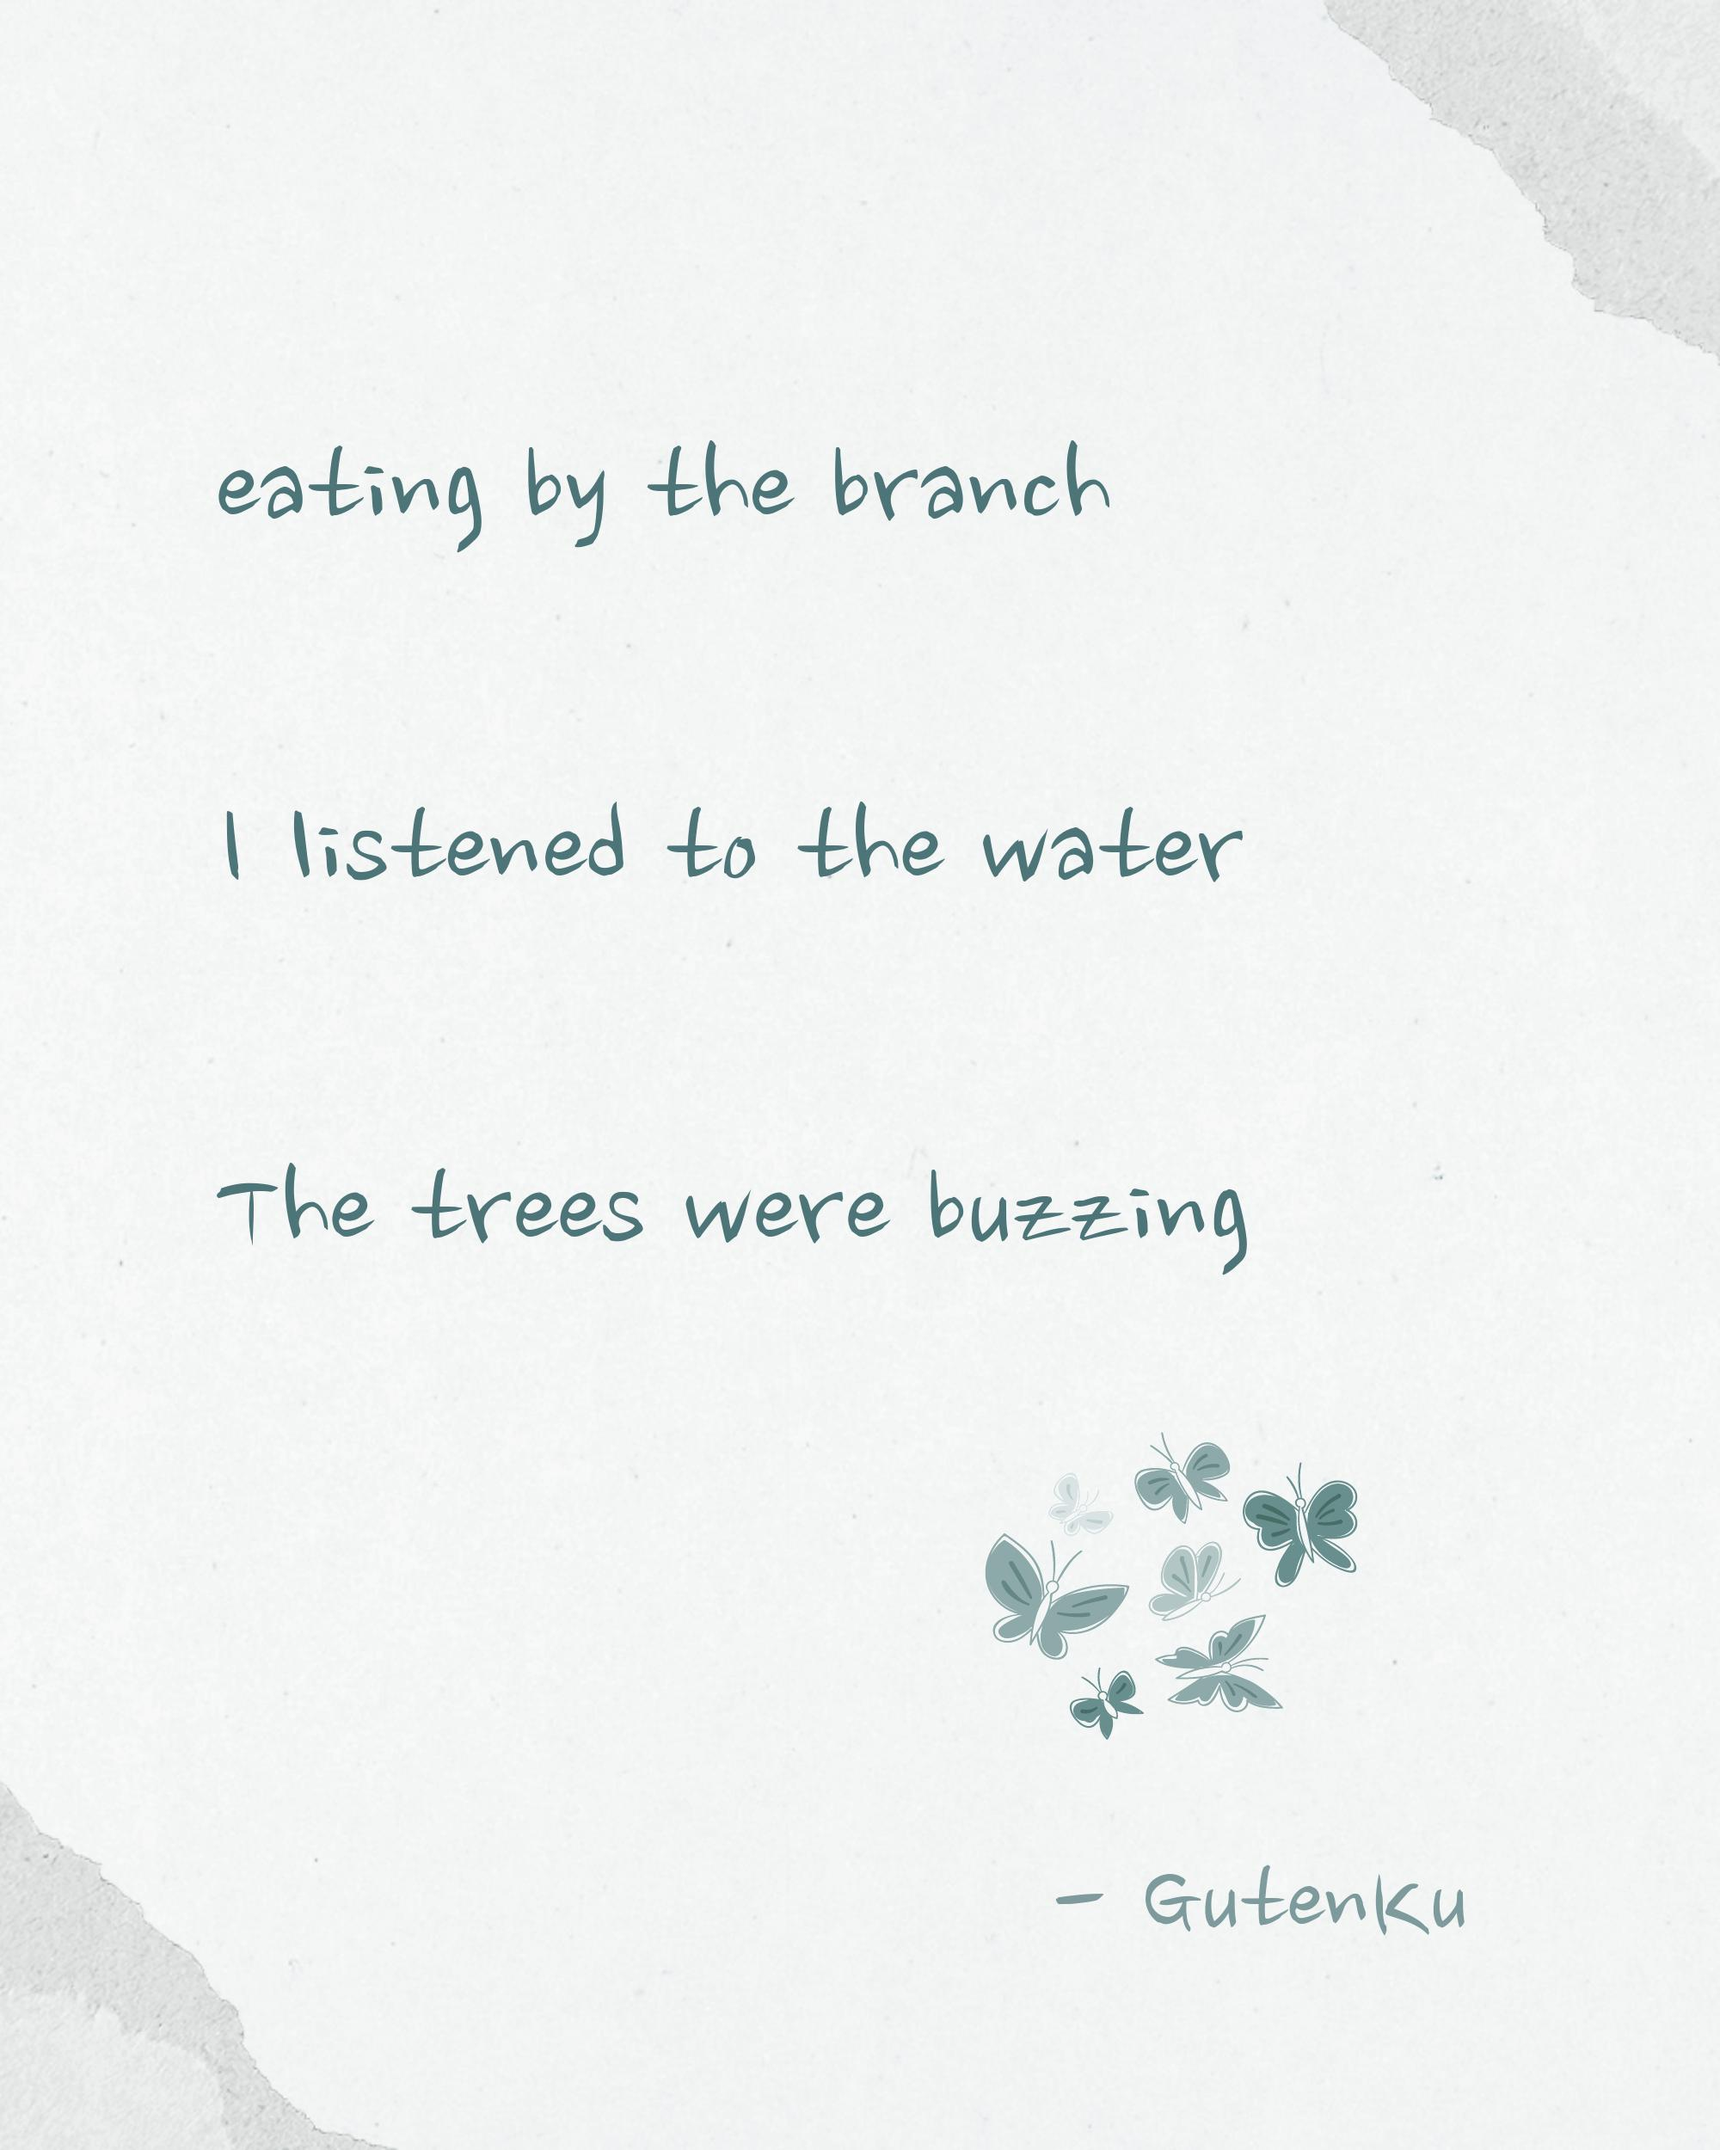
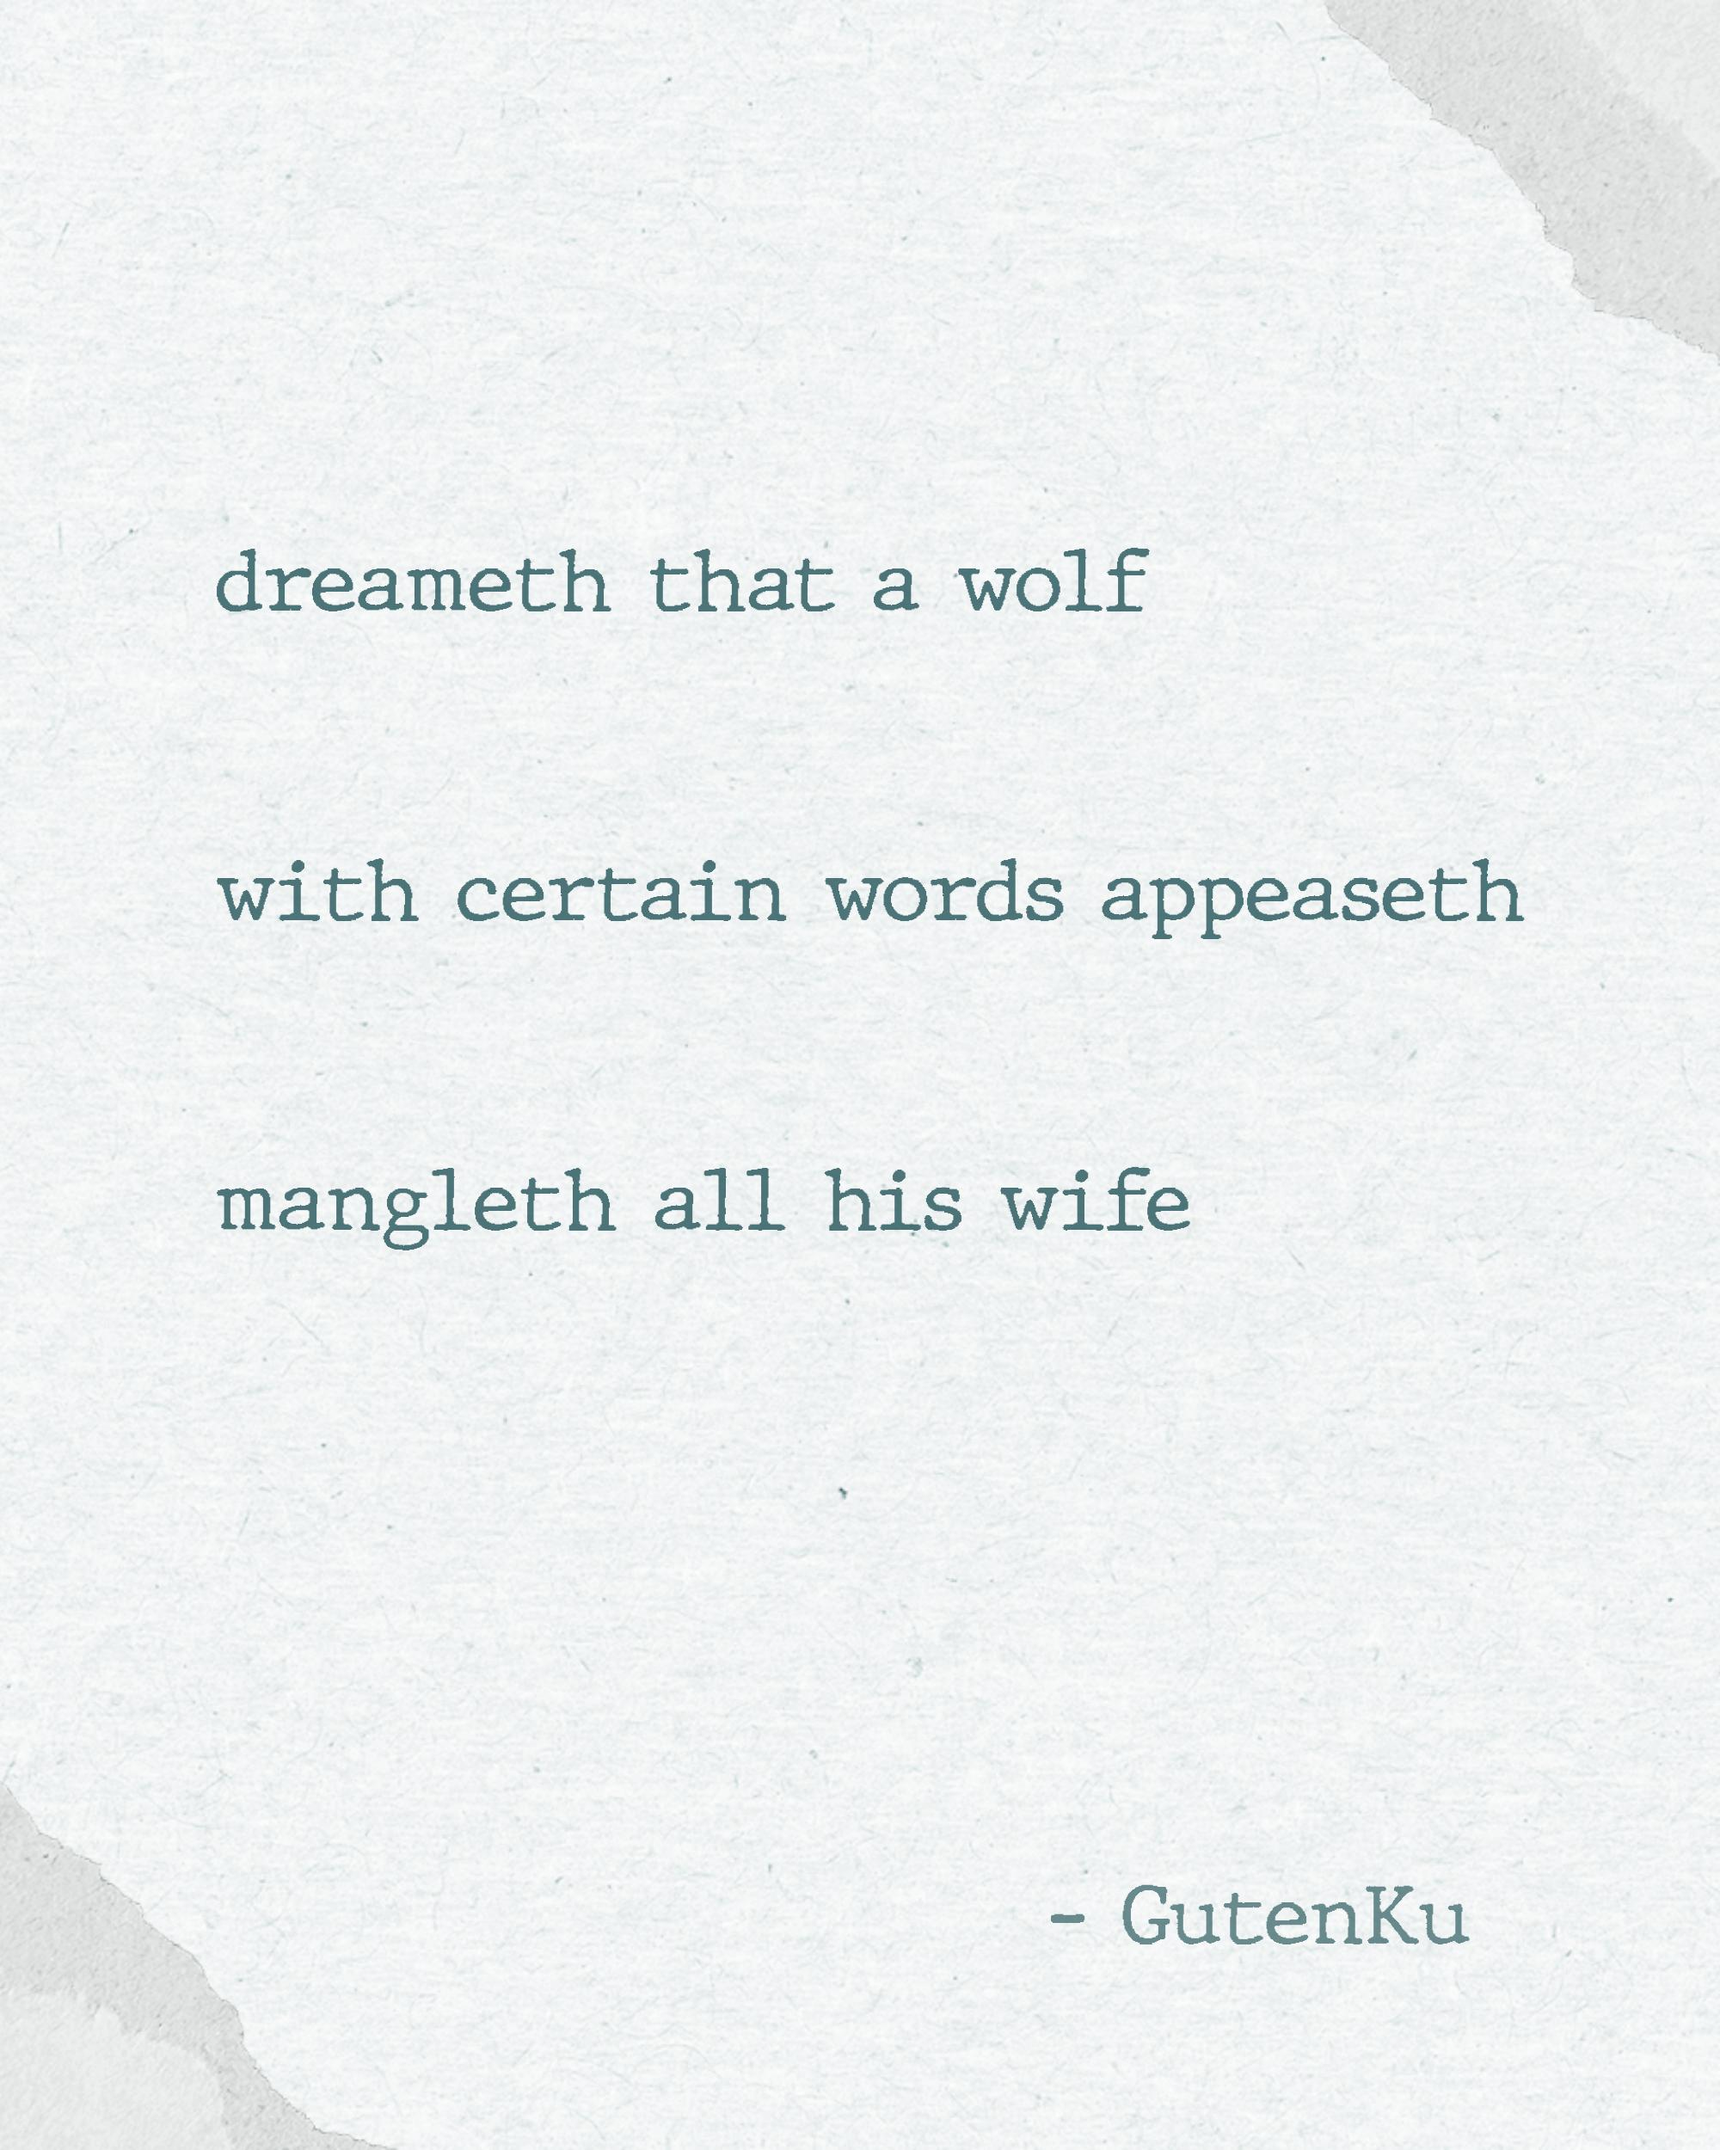
docs(readme): updated daily haiku card

diff --git a/README.md b/README.md
@@ -25,13 +25,13 @@
 <table>
 <tr>
 <td width="300" valign="top">
-<img src="/assets/img/daily_haiku_card.jpg?t=1791712820" width="280" alt="Daily Haiku Card">
+<img src="/assets/img/daily_haiku_card.jpg?t=1791799243" width="280" alt="Daily Haiku Card">
 </td>
 <td valign="top">
 
-> _"This haiku captures a quiet, reflective moment in nature, where simple actions and sounds blend into a vivid sensory experience. The speaker is eating beside a branch, suggesting stillness and closeness to the natural world. As they listen to the water, the scene becomes more peaceful and meditative, emphasizing sound as much as sight. The final line, “The trees were buzzing,” adds a surprising layer of life and energy, making the forest feel alive with hidden movement, perhaps from insects or the hum of nature itself. Overall, the haiku creates a calm yet vibrant atmosphere, showing the harmony between the speaker and the living world around them."_
+> _"This haiku suggests a dark and unsettling scene in which someone dreams that a wolf can be calmed or persuaded by the right words. The phrase "with certain words appeaseth" implies a hopeful belief that language can tame danger, but the final line shatters that hope: the wolf "mangleth all his wife." The poem creates a grim contrast between trust in speech and the violent reality that follows. Read as a symbolic piece, the wolf may represent cruelty, instinct, or betrayal, while the wife’s fate shows the failure of reason or persuasion to stop destruction. The archaic language gives the haiku a solemn, almost biblical tone, making the violence feel even more tragic and fated."_
 
-— **BotenKu** 📅 _Oct 11, 2026_
+— **BotenKu** 📅 _Oct 12, 2026_
 
 </td>
 </tr>
